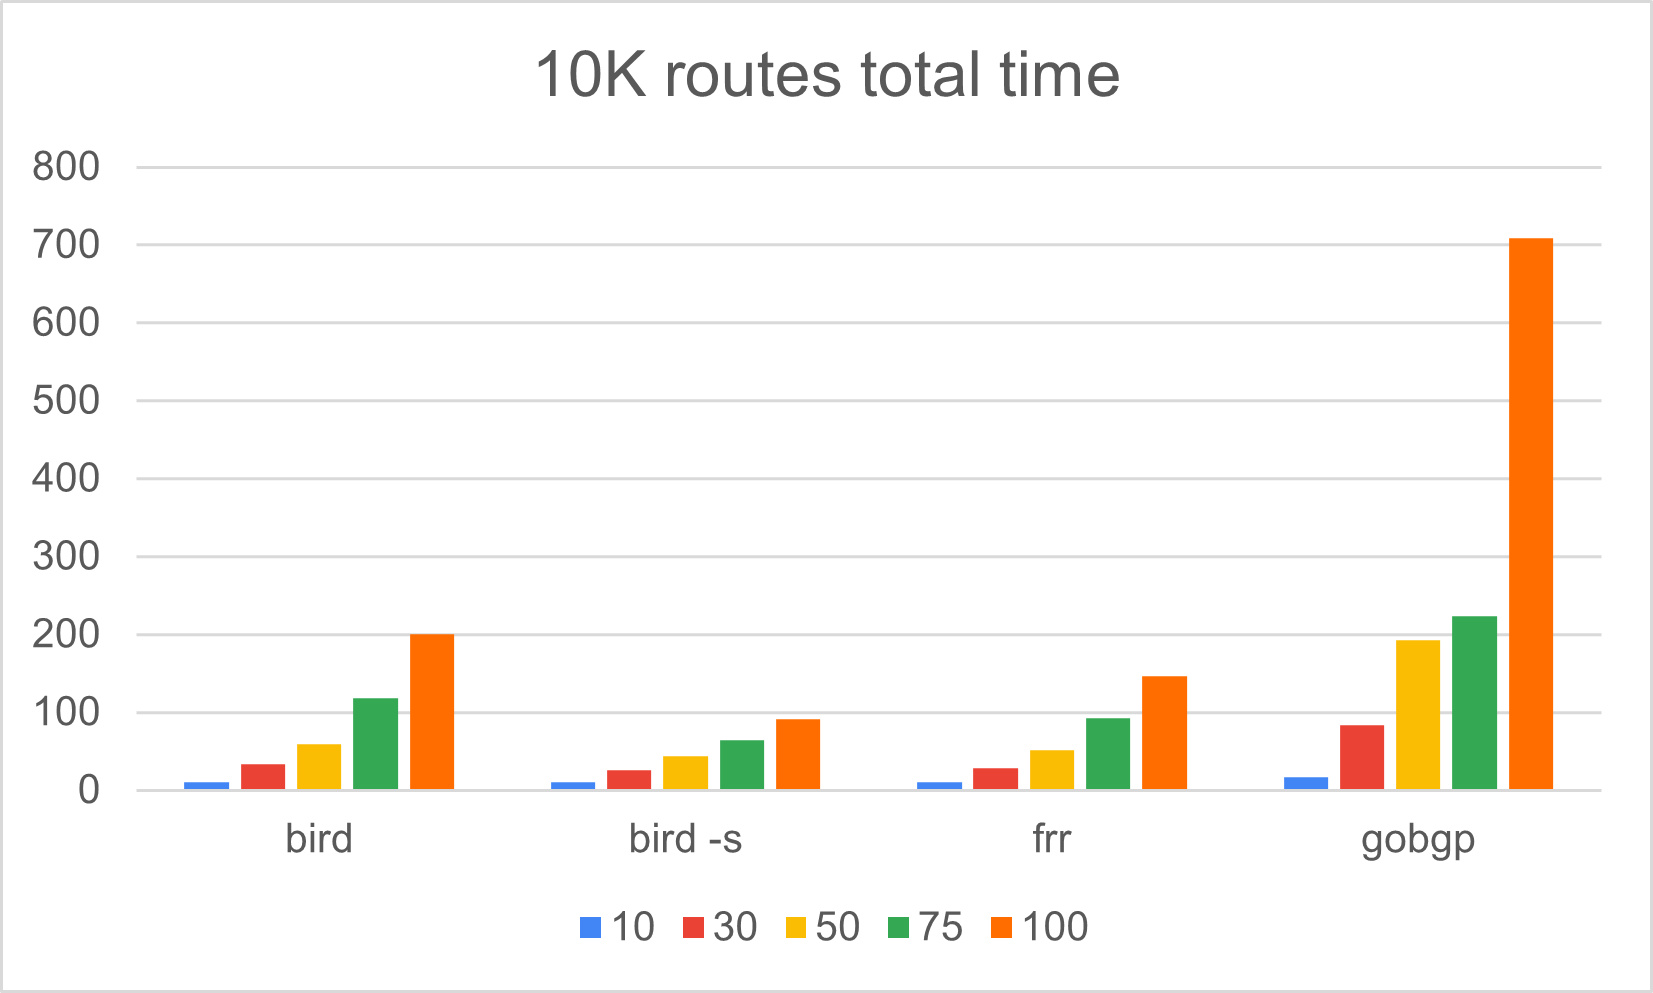
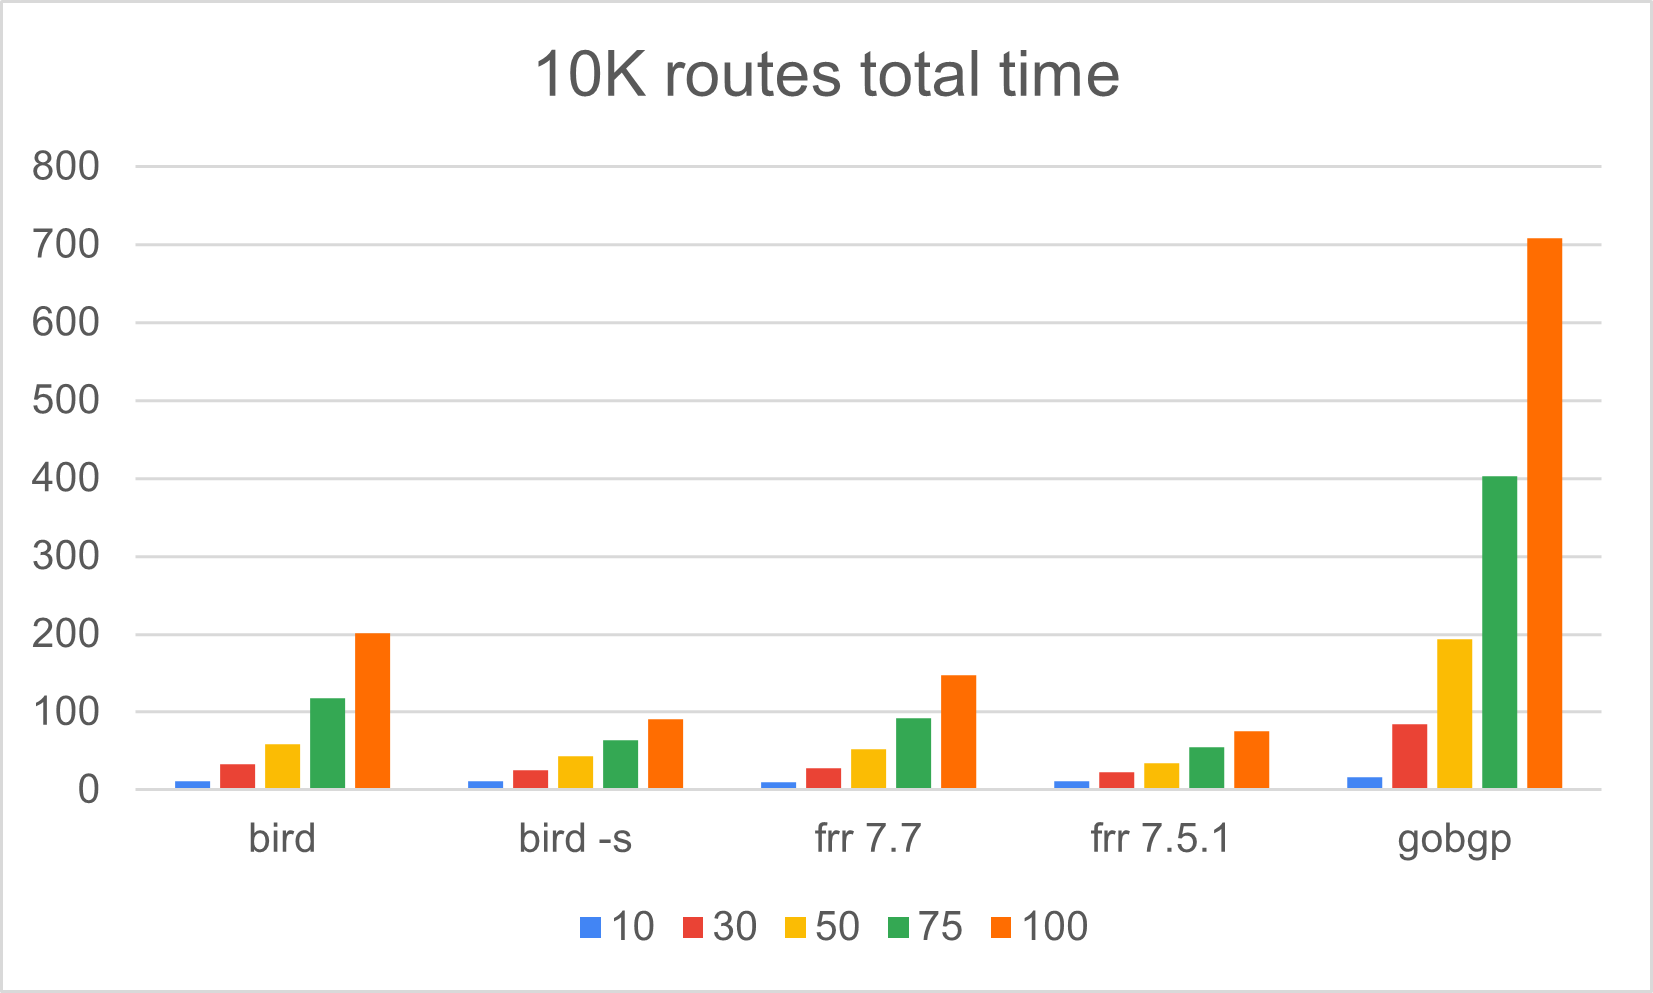
updating bgp stack with data after discovering frrouting 7.7 problems

diff --git a/_posts/2021-07-26-comparing-open-source-bgp-stacks.md b/_posts/2021-07-26-comparing-open-source-bgp-stacks.md
@@ -43,7 +43,7 @@ This might not be usual, but I'd bet there are some places where it's critical t
 
 You'll notice that there are two BIRD results here: the faster results are the single table results (with the -s flag to bgperf), while the longer are a table per neighbor. Single table is about 10x faster in this test 14 seconds vs 139. Also single table uses 1.4GB vs 10.6GB of memory. That makes sense.
 
-Single table BIRD and FRRouting each take about 15 seconds to send all the routes. However, FRRouting takes 61 seconds vs 4 to create all the neighbor relationships, so the total time for the whole test is much longer. 
+Single table BIRD and FRRouting each take about 15 seconds to send all the routes. However, FRRouting takes 61 seconds vs 4 to create all the neighbor relationships, so the total time for the whole test is much longer. It turns out that the version of FRRouting I originally used was not a stable version. Moving to version 7.5.1 got times faster than BIRD.
 
 GoBGP starts really looking bad here, about 40x slower than FRRouting or BIRD
 
@@ -75,7 +75,7 @@ I wanted to test something crazy, but it failed. The bgperf process runs out of 
 
 ### 500 neighbors
 
-FRRouting gets really upset when there are 500 neighbors, and it takes over 30 minutes to connect all the neighbors.
+FRRouting gets really upset when there are 500 neighbors, and it takes over 30 minutes to connect all the neighbors. As mentioned above, FRRouting version 7.5.1 looks really good, but the original version I tested which is not a stable release has some issues
 
 <script src="https://gist.github.com/jopietsch/d27b94dcf537133e1c731156700437f6.js"></script>
 
@@ -88,6 +88,10 @@ I was assuming that GoBGP would use more CPU resources but be quite a bit faster
 ### FRRouting and lots of neighbors
 
 You can see that as the number of neighbors jumps the time FRRouting takes to establish the neighbor connections. When it's at 30, it takes 3 seconds, at 50 it's 14s, at 100 60s, at 500 it's over 2100s. I don't know what FRRouting is doing there. I don't know if > 100 neighbors is unrealistic for FRRouting.
+
+As mentioned, it turns out that this is an issue with the original version I tested, 7.7, and looks good with 7.5.1.
+
+The problem was debugged from me on the FRRouting slack. Thanks People!
 
 ### Bird table per neighbor
 
@@ -115,36 +119,15 @@ I'm curious to test [rustybgp](https://github.com/osrg/rustybgp), and [bio-rd](h
 
 I should get the remote bgperf working and try out VM or container for various commercial stacks.
 
+## Update 2021-07-27
+- fixed typos in the tables
+
+- removed the debugging section and put it into the [bgperf README](https://github.com/jopietsch/bgperf/blob/master/README.md)
+
+- In cleaning up bgperf, I made it so that it used the FRRouting container in docker hub that is the latest. It turns out that's not a stable version and has some issues in neighbor performance. I then hard coded to the latest stable version (7.5.1) and reran tests. I've included that data above.
+
 ## All Results
 
 <script src="https://gist.github.com/jopietsch/9ce29828c7faca9678a499dc942248f6.js"></script>
 
-## How to debug bgperf
-
-If you try to change the config, it's a little tricky to debug what's going on since there are so many containers. What bgperf is doing is creating configs and startup scripts in /tmp/bgperf and then copies those to the containers before launching them. It creates three containers: bgperf_exabgp_tester_tester, bgperf_\<target\>_target, and bgperf_monitor. If things aren't working, it's probably because the config for the target is not correct. bgperf puts all the log output in /tmp/bgperf/*.log, but what it doesn't do is capture the output of the startup script.
-
-The startup script is in /tmp/bgperf/\<target\>/start.sh and gets copied to the target as /root/config/start.sh.
-
-In other words, to launch the start.sh and see the output you can run this docker command:
-
-```
-jpietsch@jpietsch-server:~/bgperf$ docker exec bgperf_bird_target /root/config/start.sh
-bird: I found another BIRD running.
-
-```
-In this case, things were already working, so I'll run ps and kill the old bird and start a new one.
-
-```
-jpietsch@jpietsch-server:~/bgperf$ docker exec bgperf_bird_target ps auxww
-USER         PID %CPU %MEM    VSZ   RSS TTY      STAT START   TIME COMMAND
-root           1  0.0  0.0   3984  2820 ?        Ss   21:21   0:00 bash
-root          14  0.0  0.0   4144  2016 ?        Ss   21:21   0:00 bird -c /root/config/bird.conf
-root          22  0.0  0.0   5904  2784 ?        Rs   21:22   0:00 ps auxww
-jpietsch@jpietsch-server:~/bgperf$ docker exec bgperf_bird_target kill 14
-```
-
-```
-jpietsch@jpietsch-server:~/bgperf$ docker exec bgperf_bird_target /root/config/start.sh
-```
-No output, so it was just fine.
 
